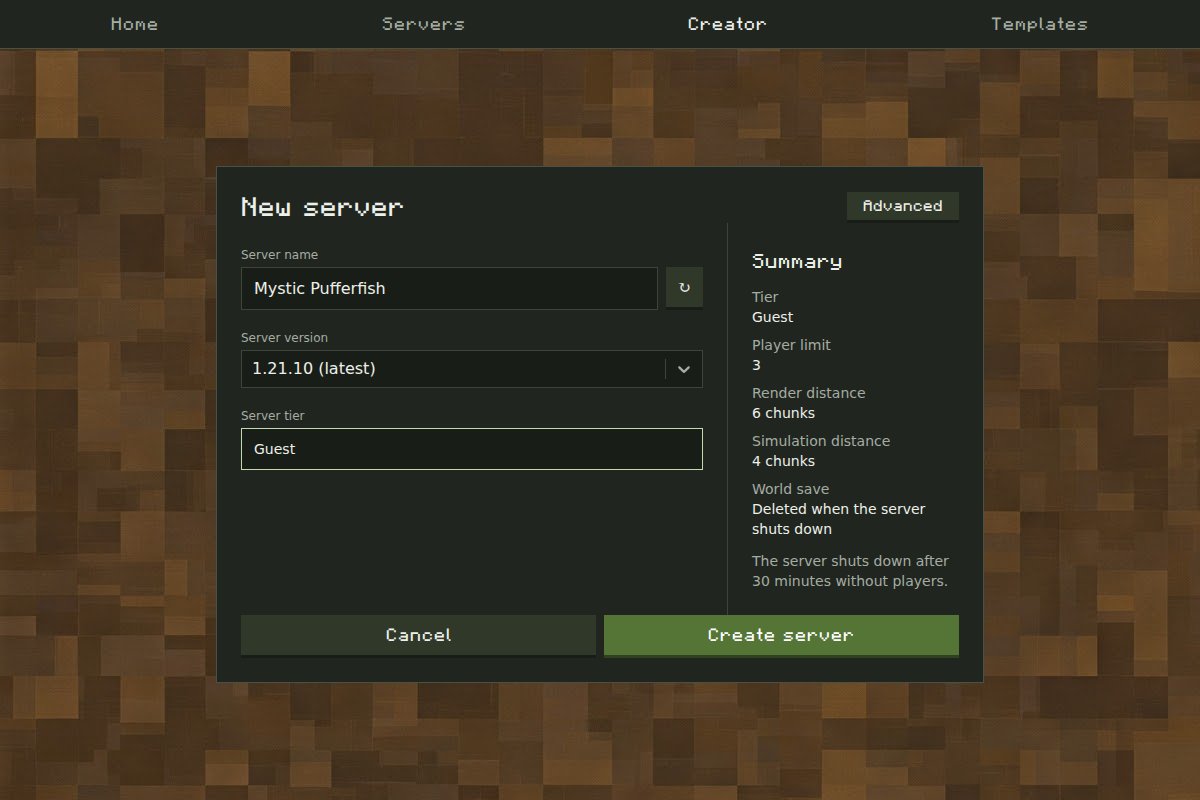
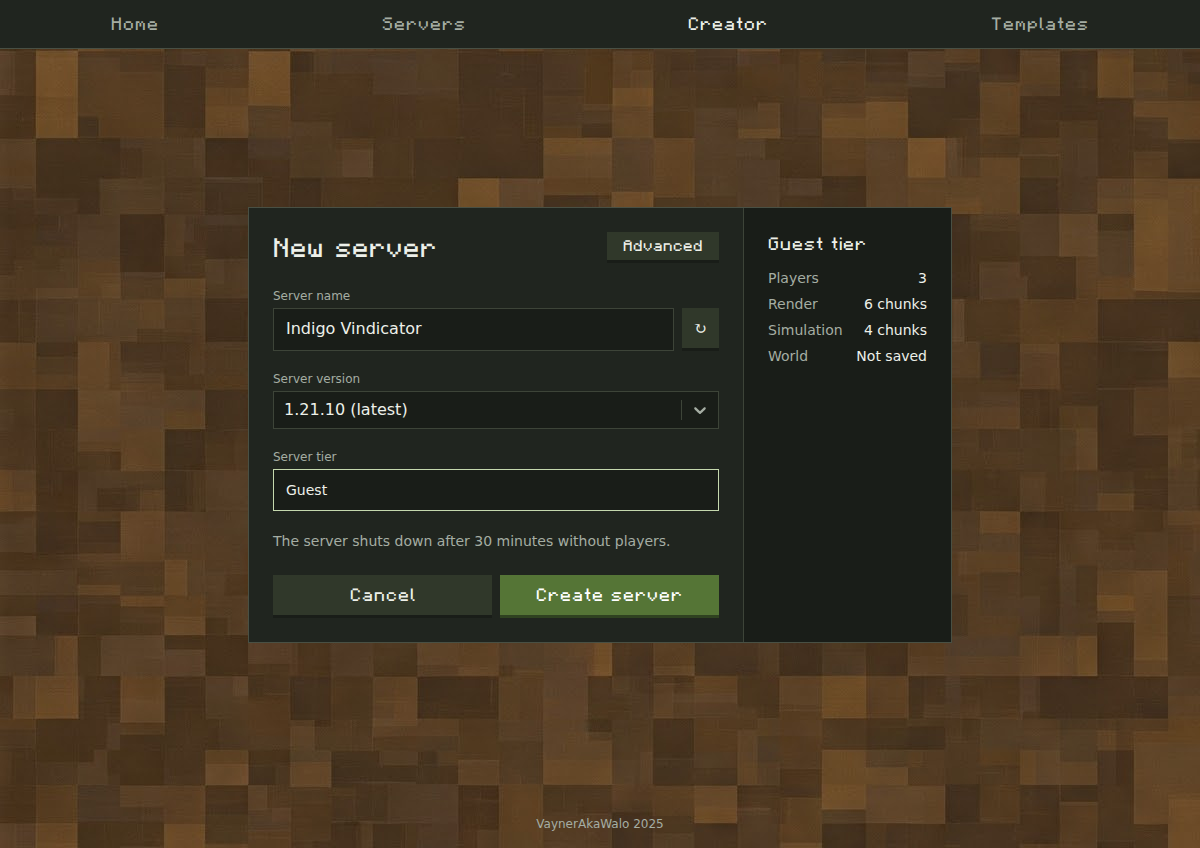
Make the creation summary compact and keep buttons under the form

diff --git a/web/src/creator/ServerCreator.tsx b/web/src/creator/ServerCreator.tsx
@@ -186,25 +186,23 @@ export function ServerCreator() {
     if (!tier) return null
 
     const rows: [string, string][] = [
-      ["Tier", tier.name],
-      ["Player limit", `${tier.maxPlayers}`],
-      ["Render distance", `${tier.viewDistance} chunks`],
-      ["Simulation distance", `${tier.simulationDistance} chunks`],
-      ["World save", tier.persistent ? "Kept when the server stops" : "Deleted when the server shuts down"],
+      ["Players", `${tier.maxPlayers}`],
+      ["Render", `${tier.viewDistance} chunks`],
+      ["Simulation", `${tier.simulationDistance} chunks`],
+      ["World", tier.persistent ? "Saved" : "Not saved"],
     ]
 
     return (
-      <aside className="flex flex-col gap-3 border-t border-edge p-6 sm:w-64 sm:shrink-0 sm:border-t-0 sm:border-l" aria-labelledby="server-summary-heading">
-        <h3 id="server-summary-heading" className="font-pixel text-lg">Summary</h3>
-        <dl className="flex flex-col gap-2 text-sm">
+      <aside className="flex flex-col gap-3 border-t border-edge bg-inset p-6 sm:col-start-2 sm:row-span-2 sm:row-start-1 sm:w-52 sm:border-t-0 sm:border-l" aria-labelledby="server-summary-heading">
+        <h3 id="server-summary-heading" className="font-pixel">{tier.name} tier</h3>
+        <dl className="flex flex-col gap-1.5 text-sm">
           {rows.map(([label, value]) => (
-            <div key={label} className="flex flex-col">
+            <div key={label} className="flex justify-between gap-2">
               <dt className="text-content-muted">{label}</dt>
               <dd>{value}</dd>
             </div>
           ))}
         </dl>
-        <p className="text-sm text-content-muted">The server shuts down after 30 minutes without players.</p>
       </aside>
     )
   }
@@ -241,25 +239,26 @@ export function ServerCreator() {
   }
 
   return (
-    <div className="mc-modal">
-      <div className="flex flex-row items-center justify-between gap-4 px-6 pt-6">
-        <h2 className="font-pixel text-2xl grid">
-          <span className={`[grid-area:1/1] ${showAdvanced ? "invisible" : ""}`} aria-hidden={showAdvanced}>New server</span>
-          <span className={`[grid-area:1/1] ${showAdvanced ? "" : "invisible"}`} aria-hidden={!showAdvanced}>Advanced</span>
-        </h2>
-        <button className="mc-button-secondary grid py-1 text-sm" onClick={() => setShowAdvanced(advanced => !advanced)}>
-          <span className={`[grid-area:1/1] ${showAdvanced ? "invisible" : ""}`}>Advanced</span>
-          <span className={`[grid-area:1/1] ${showAdvanced ? "" : "invisible"}`}>Back</span>
-        </button>
-      </div>
+    <div className="mc-modal sm:grid sm:grid-cols-[1fr_auto]">
+      <div className="flex flex-col">
+        <div className="flex flex-row items-center justify-between gap-4 px-6 pt-6">
+          <h2 className="font-pixel text-2xl grid">
+            <span className={`[grid-area:1/1] ${showAdvanced ? "invisible" : ""}`} aria-hidden={showAdvanced}>New server</span>
+            <span className={`[grid-area:1/1] ${showAdvanced ? "" : "invisible"}`} aria-hidden={!showAdvanced}>Advanced</span>
+          </h2>
+          <button className="mc-button-secondary grid py-1 text-sm" onClick={() => setShowAdvanced(advanced => !advanced)}>
+            <span className={`[grid-area:1/1] ${showAdvanced ? "invisible" : ""}`}>Advanced</span>
+            <span className={`[grid-area:1/1] ${showAdvanced ? "" : "invisible"}`}>Back</span>
+          </button>
+        </div>
 
-      {/* Both views share one grid cell so the modal keeps the height of the taller one when switching. */}
-      <div className="flex flex-1 flex-col sm:flex-row">
+        {/* Both views share one grid cell so the modal keeps the height of the taller one when switching. */}
         <div className="grid flex-1 p-6">
           <div className={`flex flex-col gap-5 [grid-area:1/1] ${showAdvanced ? "opacity-0" : ""}`}
                inert={showAdvanced} aria-hidden={showAdvanced}>
             {basicSettings()}
             {tierSettings()}
+            <p className="text-sm text-content-muted">The server shuts down after 30 minutes without players.</p>
           </div>
 
           <div className={`flex flex-col gap-4 [grid-area:1/1] ${showAdvanced ? "" : "opacity-0"}`}
@@ -267,11 +266,11 @@ export function ServerCreator() {
             {advancedSettings()}
           </div>
         </div>
-
-        {summary()}
       </div>
 
-      <div className="flex items-center gap-2 w-full px-6 pb-6">
+      {summary()}
+
+      <div className="flex items-center gap-2 w-full p-6 sm:pt-0">
         <button className="mc-button-secondary flex-1 whitespace-nowrap" onClick={() => navigate("/my-servers")}>Cancel</button>
         <button className="mc-button flex-1 whitespace-nowrap" onClick={createServer}>Create server</button>
       </div>

diff --git a/web/src/App.css b/web/src/App.css
@@ -38,7 +38,7 @@
 @layer components {
   .mc-modal {
     @apply mc-panel my-6 flex flex-col;
-    width: min(48rem, 92vw);
+    width: min(44rem, 92vw);
   }
 
   .mc-notification {
